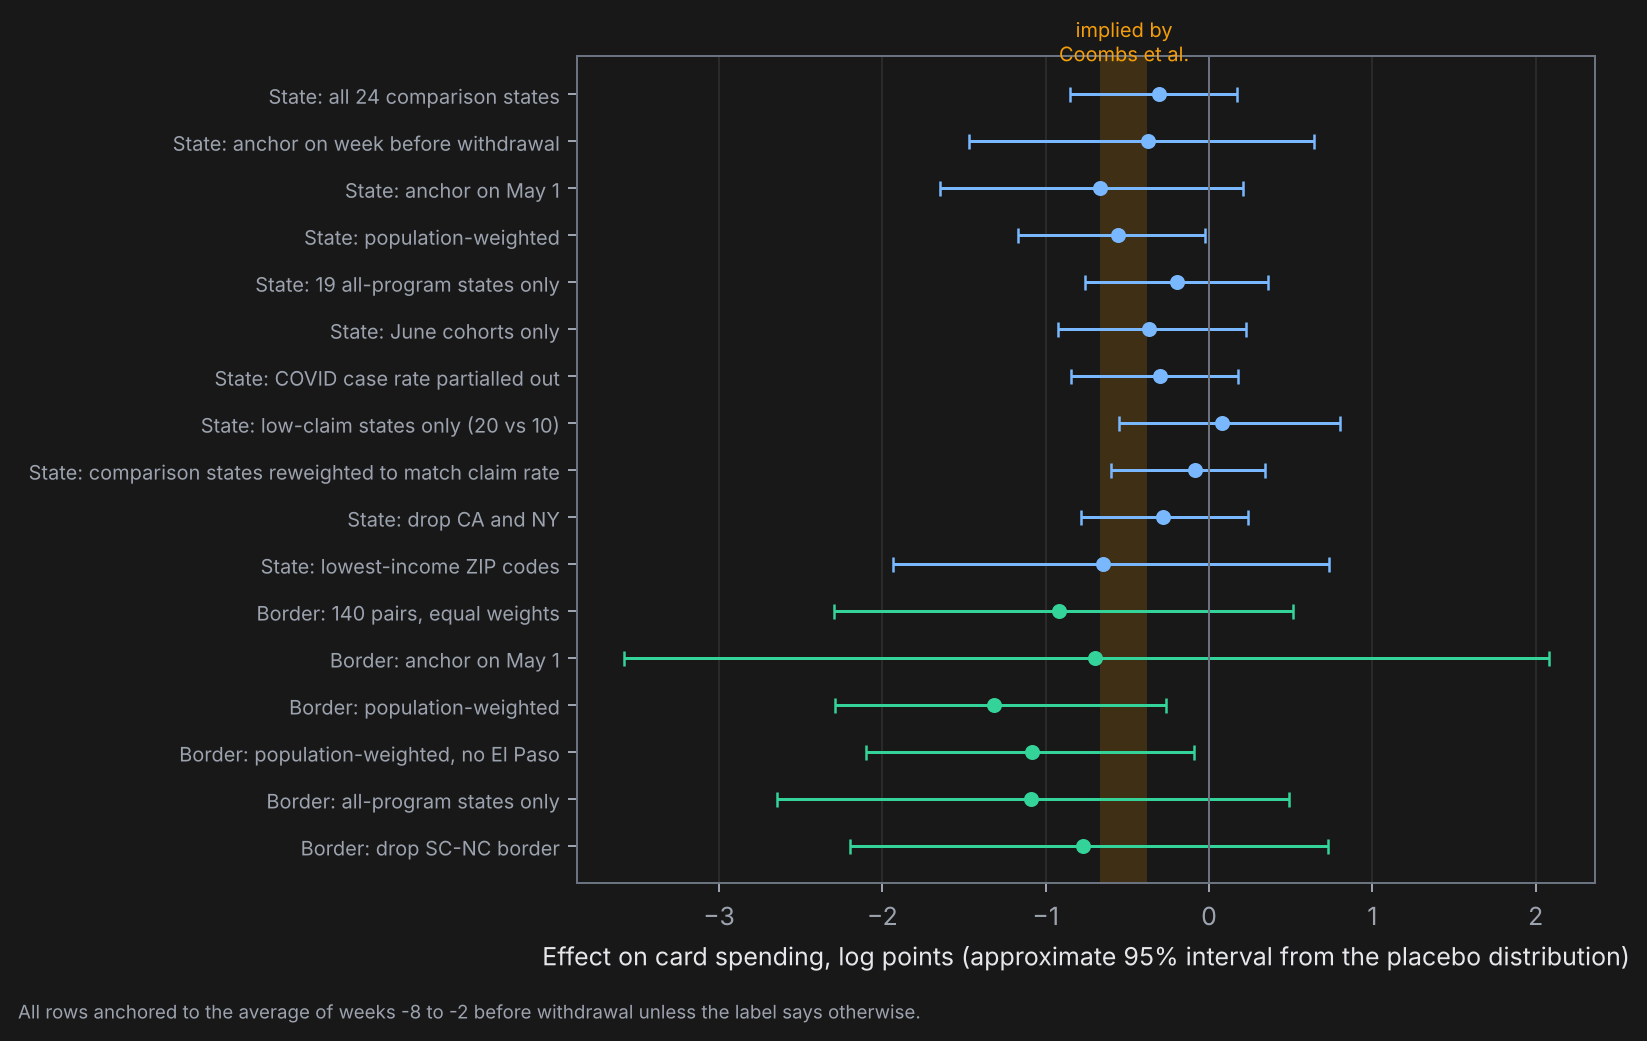
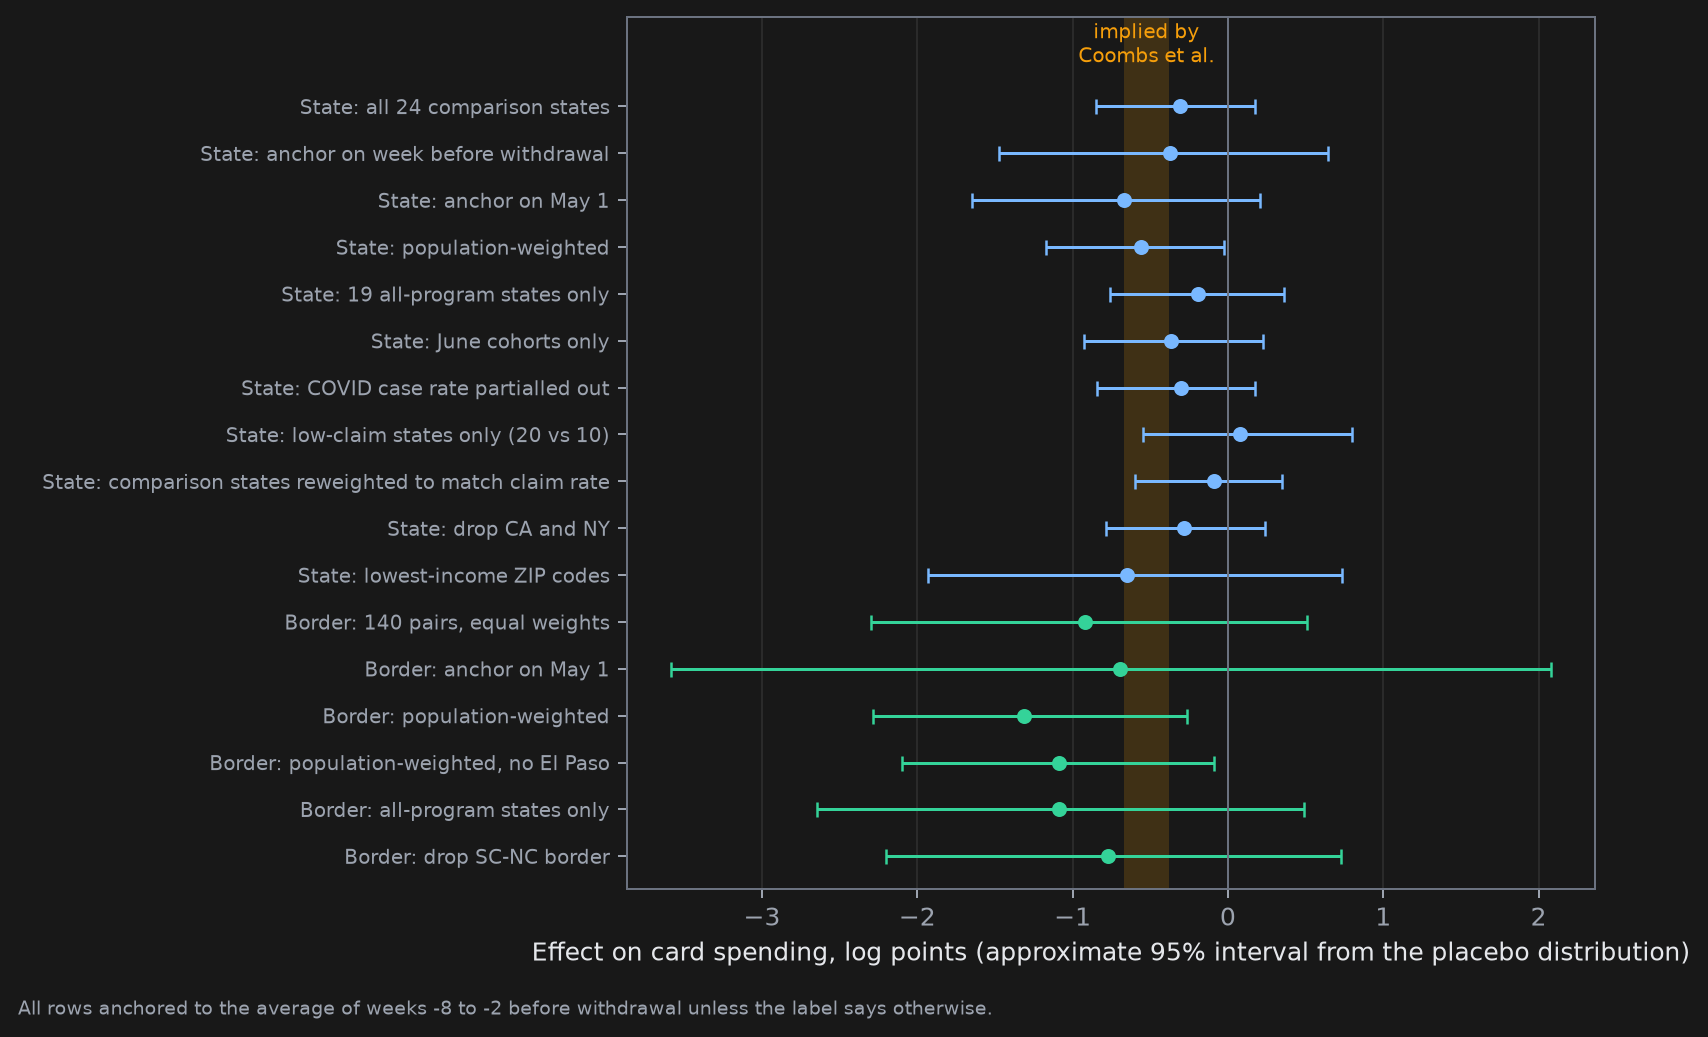
Clean docstrings, remove scratch review log, and refine spec chart label spacing

Changed region(s): [[0.031, 0.0, 0.9909, 0.9257], [0.0, 0.9566, 0.5883, 0.9875]]

diff --git a/src/common.py b/src/common.py
@@ -70,8 +70,7 @@ def att_gt(W, cohorts, controls, base="premean", weights=None, emin=-12, emax=8)
     base: 'premean' (mean of event weeks -8 to -2), 'g-1' (week before treatment) or a Timestamp (fixed calendar week).
     Returns a long frame of ATT(g, e) with the cohort weight n used by `aggregate`: the number of treated units with
     data in that week, or, when `weights` is given, the sum of their weights. Weighting across cohorts by the same
-    weights used within cohorts is what makes a population-weighted estimate population-weighted (round-4 fix:
-    the earlier code weighted across cohorts by the count of states, so Alabama outweighed Florida).
+    weights used within cohorts preserves population weighting at the aggregate level.
     Units with no data at all in W are dropped from both groups."""
     rows = []
     has_data = set(W.index[W.notna().any(axis=1)])
@@ -117,7 +116,7 @@ def base_values(W, g, base, m, controls, pre_lo=-8, pre_hi=-2):
 
 
 def _wmean(d, w):
-    """Weighted column means, normalizing weights only over non-missing entries (fixes the DC bug)."""
+    """Weighted column means, normalizing weights only over non-missing entries."""
     w = w.astype(float)
     num = d.mul(w, axis=0).sum(min_count=1)
     den = d.notna().mul(w, axis=0).sum()
@@ -140,10 +139,8 @@ def pretrend_slope(ev, emin=-8, emax=-1):
 def linear_trend_adjusted_post(ev, slope=None, emin=-8, emax=-1):
     """Post average after subtracting the straight line fitted to the pre-period path on event weeks emin..emax
     (Dobkin et al. 2018 style, one of several bounds). The line carries its own intercept, so the result does not
-    depend on where the series is anchored. Round-4 fix: the earlier version subtracted slope * (e + 1), which
-    assumes the path is zero at e = -1 and is only right for the g-1 anchor; under the pre-period mean anchor
-    (centered at e = -5) it removed five ninths of a linear trend. `slope` is accepted for backward compatibility
-    and ignored; the slope is refitted on the same window."""
+    depend on where the series is anchored. `slope` is accepted for backward compatibility and ignored; the slope
+    is refitted on the same window."""
     x = np.array([e for e in ev.index if emin <= e <= emax], dtype=float); y = ev.reindex(x.astype(int)).values
     xbar, ybar = x.mean(), y.mean()
     b = float(((x - xbar) * (y - ybar)).sum() / ((x - xbar) ** 2).sum())
@@ -174,7 +171,7 @@ def stratified_randomization_inference(stat_fn, cohorts, controls, strata, B=100
     """Reassign cohorts at random WITHIN strata, keeping each cohort's count in each stratum. Use this when the
     estimator conditions on a unit characteristic (here the May 29 claim rate): an unstratified permutation gives
     pseudo-treated groups whose exposure sits at the grand mean, and a statistic that reweights comparison units
-    toward the treated mean is then not centered at zero under the sharp null (round-4 fix, referee error 1).
+    toward the treated mean is then not centered at zero under the sharp null.
     strata: Series unit -> stratum label."""
     rng = np.random.default_rng(seed)
     real = {u: g for g, m in cohorts.items() for u in m}

diff --git a/audit/tests.py b/audit/tests.py
@@ -64,8 +64,7 @@ def true_post_att(truth, coh):
 def mc_state(R=120, tau=-1.0, base="premean", pretrend=0.0, n_ri=30, B=150):
     """Bias and sd of the estimator, and either the size of the randomization test (tau = 0) or the coverage of the
     95% randomization interval (tau != 0). For coverage the null is built from the panel with the imposed effect
-    removed (W0), which is what a test of the sharp null 'effect = truth' permutes. Round-4 fix: permuting the panel
-    with the effect still in it inflated the null and reported 100% coverage.
+    removed (W0), which is what a test of the sharp null 'effect = truth' permutes.
     Note: for an additive effect and this linear estimator, est - truth does not depend on tau, so the bias and sd
     lines for tau = -1 and tau = 0 coincide by construction; the pre-trend line is the informative bias check."""
     errs, covers, pvals = [], [], []
@@ -114,8 +113,8 @@ def ols_cohort_att(df, st, y="y_spend_all", pre=(-8, -2), post=(0, 8), weights=N
     """For each cohort g: OLS (or WLS with state weights) of y on unit FE + week FE + D (treated x post) using cohort
     g and never-treated states, restricted to event weeks in the pre and post windows. Then average cohort ATTs
     with the same (g, e) cell weighting as `aggregate`: the number (or weight sum) of treated states with data,
-    times the number of post weeks. Round-4 change: states with no data for y are excluded from the cohort count,
-    and the weighted version is run so the population-weighted estimator is checked too."""
+    times the number of post weeks. States with no data for y are excluded from the cohort count, and the weighted
+    version verifies the population-weighted estimator as well."""
     cohorts, controls = design(st)
     rows = []
     for g, m in cohorts.items():

diff --git a/audit/check_post.py b/audit/check_post.py
@@ -1,7 +1,6 @@
 """Every number in the post must trace to an output file. Each claim takes the value from the CSV, formats it
 the way the post writes it, and asserts that the formatted text appears in the post. If an output changes, the
-formatted text changes and the check fails. (The earlier version only tested that a hardcoded string was
-present in the post, which the round-4 referee rightly called theatrical.)"""
+formatted text changes and the check fails."""
 import sys, pandas as pd
 from pathlib import Path
 ROOT = Path(__file__).resolve().parents[1]
@@ -124,7 +123,7 @@ claim("bottom line", f"spent {a(S.loc[HEAD, 'post_att'], 1)} to {a(S.loc[POPM, '
 claim("short head", f"ran about {a(S.loc[HEAD, 'post_att'], 1)} percent lower ({a(S.loc[POP, 'post_att'], 1)} percent when states are weighted by population)")
 claim("short implied", f"close to the {a(M['implied_pct_pce'], 1)} to {a(M['implied_pct_cardable'], 1)} percent the bank data imply")
 claim("short mde", f"could reliably detect is about {a(P.loc['state, pre-period mean base', 'mde_80'])} percent, larger than the effect itself")
-# the null of every placebo distribution should be centered (the round-4 kernel bug would show here)
+# the null of every placebo distribution should be centered near zero
 off = S[S.null_mean.abs() > 0.1]
 assert off.empty, f"placebo null not centered: {off.null_mean.to_dict()}"
 

diff --git a/src/state_analysis.py b/src/state_analysis.py
@@ -1,4 +1,4 @@
-"""State-level staggered DiD with the robustness set a referee would ask for.
+"""State-level staggered DiD across headline and robustness specifications.
 Outputs: out/state_specs.csv (one row per specification), out/state_event.csv (event-time paths)."""
 import numpy as np, pandas as pd
 from common import *
@@ -84,8 +84,7 @@ def run():
         controls = [c for c in controls if c not in drop_controls]
         if covid_adj:
             # partial out the contemporaneous new COVID case rate with state AND week fixed effects (two-way within
-            # transformation). Round-4 fix: with state effects alone the slope was positive, because both spending and
-            # Delta cases rose from spring to late summer, and the adjustment pushed the estimate the wrong way.
+            # transformation) so common spring-to-summer trends in spending and Delta cases do not confound the slope.
             C = wide(df, "new_case_rate").reindex(W.index)[W.columns]
             def tw(X):
                 X = X - X.mean(axis=1).values[:, None]

diff --git a/src/figs.py b/src/figs.py
@@ -70,8 +70,9 @@ def main():
     for i, (lab, b, lo, hi, c) in enumerate(rows[::-1]):
         ax.errorbar(b, i, xerr=[[b - lo], [hi - b]], fmt="o", color=c, ms=5, capsize=3, lw=1.2)
     ax.set_yticks(range(len(rows))); ax.set_yticklabels([r[0] for r in rows[::-1]], fontsize=8)
+    ax.set_ylim(-0.7, len(rows) + 0.9)
     ax.axvline(0, color=GREY, lw=.8); ax.axvspan(-0.67, -0.38, color=ORANGE, alpha=.18, lw=0)
-    ax.text(-0.52, len(rows) - 0.3, "implied by\nCoombs et al.", color=ORANGE, fontsize=8, ha="center")
+    ax.text(-0.525, len(rows) - 0.2, "implied by\nCoombs et al.", color=ORANGE, fontsize=8, ha="center", va="bottom")
     ax.set_xlabel("Effect on card spending, log points (approximate 95% interval from the placebo distribution)"); ax.grid(axis="x", alpha=.12)
     fig.text(0.01, -0.02, "All rows anchored to the average of weeks -8 to -2 before withdrawal unless the label says otherwise.", fontsize=7.5, color=MUTED)
     fig.tight_layout(); fig.savefig(FIG / "ui-withdrawal-specifications.png", dpi=180, bbox_inches="tight"); plt.close(fig)

diff --git a/src/border.py b/src/border.py
@@ -63,8 +63,7 @@ def build_pairs(st, W, geo, adj):
 def pair_weights(pr, pop):
     """Harmonic mean of the two counties' populations, divided by the geometric mean of the number of pairs each
     county appears in, so a county paired with several neighbors does not enter each time at full weight.
-    Reuse is counted over the whole pair table passed in (round-4 fix: counting within cohort missed four control
-    counties that border treated counties in two cohorts)."""
+    Reuse is counted over the whole pair table passed in, including counties bordering treated counties in multiple cohorts."""
     pt, pc = pr.t_fips.map(pop).astype(float), pr.c_fips.map(pop).astype(float)
     hm = 2 * pt * pc / (pt + pc)
     reuse = pr.t_fips.map(pr.t_fips.value_counts()) * pr.c_fips.map(pr.c_fips.value_counts())
